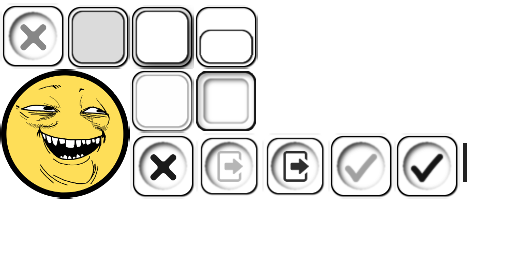
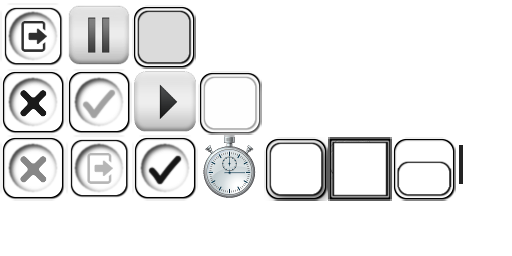
Simple UI, game pause state and minor changes

Changed region(s): [[0.0, 0.0, 0.9375, 0.8125]]

diff --git a/core/src/com/mpv/screens/stages/GameUIStage.java b/core/src/com/mpv/screens/stages/GameUIStage.java
@@ -4,12 +4,14 @@ import com.badlogic.gdx.Gdx;
 import com.badlogic.gdx.graphics.g2d.SpriteBatch;
 import com.badlogic.gdx.scenes.scene2d.Stage;
 import com.badlogic.gdx.scenes.scene2d.ui.Button;
+import com.badlogic.gdx.scenes.scene2d.ui.Image;
 import com.badlogic.gdx.scenes.scene2d.ui.Label;
 import com.badlogic.gdx.scenes.scene2d.ui.Table;
 import com.badlogic.gdx.scenes.scene2d.utils.ClickListener;
 import com.badlogic.gdx.utils.viewport.Viewport;
 import com.mpv.data.Assets;
 import com.mpv.data.GVars;
+import com.mpv.game.world.GameObject;
 
 public class GameUIStage extends Stage {
 
@@ -20,6 +22,7 @@ public class GameUIStage extends Stage {
 	public GameUIStage(Viewport viewport,	 SpriteBatch batch) {
 		super(viewport, batch);
 		Button bExit = new Button(Assets.skin, "button-exit");
+		final Button bPlay = new Button(Assets.skin, "button-play");
 		//
 		bExit.addListener(new ClickListener() {
 			public void clicked(com.badlogic.gdx.scenes.scene2d.InputEvent event, float x, float y) {
@@ -27,16 +30,29 @@ public class GameUIStage extends Stage {
 				Gdx.app.exit();
 			}
 		});
-		labelFPS = new Label("", Assets.skin, "normal-text");
-		labelDebug = new Label("", Assets.skin, "normal-text");
-		labelTime = new Label("", Assets.skin, "normal-text");
+		bPlay.addListener(new ClickListener() {
+			public void clicked(com.badlogic.gdx.scenes.scene2d.InputEvent event, float x, float y) {
+				//super.touchDown(event, x, y, pointer, button);
+				if (bPlay.isChecked()) {
+					GameObject.getInstance().gameResume();
+				} else {
+					GameObject.getInstance().gamePause();
+				}
+			}
+		});
+		labelFPS = new Label("", Assets.skin, "game-text");
+		labelDebug = new Label("", Assets.skin, "game-text");
+		labelTime = new Label("", Assets.skin, "game-text");
 		Table controlPanel = new Table();
 		controlPanel.setFillParent(true);
-		controlPanel.debug().bottom().right();
-		controlPanel.add(labelDebug).expand(true, false).size(GVars.scrHeight/13);
-		controlPanel.add(labelTime).height(GVars.scrHeight/13).width(getWidth()/5);
-		controlPanel.add(labelFPS).size(GVars.scrHeight/13);
-		controlPanel.add(bExit).size(GVars.scrHeight/15);
+		controlPanel.debug().bottom().left();
+		controlPanel.add(new Image(Assets.skin.getDrawable("timer"))).size(GVars.scrHeight/13);
+		controlPanel.add(labelTime).expand(true, false).height(GVars.scrHeight/13).width(getWidth()/5).left();
+		//controlPanel.add(labelDebug).expand(true, false).size(GVars.scrHeight/13);
+		
+		//controlPanel.add(labelFPS).expand(true, false).size(GVars.scrHeight/13);
+		controlPanel.add(bPlay).size(GVars.scrHeight/13).right();
+		//controlPanel.add(bExit).size(GVars.scrHeight/13);
 		this.addActor(controlPanel);
 	}
 

diff --git a/core/src/com/mpv/game/players/Player.java b/core/src/com/mpv/game/players/Player.java
@@ -1,7 +1,6 @@
 package com.mpv.game.players;
 
 import aurelienribon.tweenengine.Tween;
-
 import com.badlogic.gdx.math.Vector2;
 import com.badlogic.gdx.physics.box2d.Body;
 import com.badlogic.gdx.physics.box2d.BodyDef;
@@ -12,7 +11,6 @@ import com.badlogic.gdx.scenes.scene2d.InputEvent;
 import com.badlogic.gdx.scenes.scene2d.utils.ClickListener;
 import com.mpv.data.Const;
 import com.mpv.data.GVars;
-import com.mpv.game.world.GameObject;
 import com.mpv.tween.PlayerAccessor;
 
 public class Player extends AnimatedImage  {
@@ -34,11 +32,6 @@ public class Player extends AnimatedImage  {
 			@Override
 			public boolean touchDown(InputEvent event, float x, float y,
 					int pointer, int button) {
-				if (GameObject.state != GameObject.ACTIVE) {
-					GameObject.getInstance().gameResume();
-				} else {
-					GameObject.getInstance().gamePause();
-				}
 				return super.touchDown(event, x, y, pointer, button);
 			}
 		});

diff --git a/core/src/com/mpv/screens/GameScreen.java b/core/src/com/mpv/screens/GameScreen.java
@@ -8,7 +8,6 @@ import com.badlogic.gdx.InputMultiplexer;
 import com.badlogic.gdx.Screen;
 import com.badlogic.gdx.graphics.Color;
 import com.badlogic.gdx.graphics.GL20;
-import com.badlogic.gdx.graphics.OrthographicCamera;
 import com.badlogic.gdx.graphics.g2d.SpriteBatch;
 import com.badlogic.gdx.input.GestureDetector;
 import com.badlogic.gdx.maps.MapProperties;
@@ -50,9 +49,6 @@ public class GameScreen implements Screen {
 		GVars.tweenManager = new TweenManager();
 		batch = new SpriteBatch();
 		//batch.setShader(Assets.shader);
-		//Camera		
-		GVars.frCam = new OrthographicCamera(GVars.scrWidth, GVars.scrHeight);
-		GVars.bgCam = new OrthographicCamera(GVars.scrWidth, GVars.scrHeight);
 		//Lights		
 		GVars.pointLight = new PointLight(GVars.rayHandler, 24, new Color(1,1,1,1), Const.widthInMeters, Const.BLOCK_SIZE, Const.BLOCK_SIZE);
 		//pointLight.attachToBody(GVars.activePlayer.body, 0f, 0f);

diff --git a/core/src/com/mpv/game/ApplicationHandler.java b/core/src/com/mpv/game/ApplicationHandler.java
@@ -28,21 +28,22 @@ public class ApplicationHandler extends Game {
 		//Loading native libraries
 		GdxNativesLoader.load();
 		
+		//GVars initial setup
+		GVars.app = this;
+		GVars.resize(Gdx.graphics.getWidth(),Gdx.graphics.getHeight());
+		
 		//Initialize configuration and resources
-		Assets.Load();
-		//
+		Assets.load();
+
+		//Custom buttons
 		Gdx.input.setCatchBackKey(true);
 		Gdx.input.setCatchMenuKey(true);
 		
-		GVars.app = this;
-		GVars.resize(Gdx.graphics.getWidth(),Gdx.graphics.getHeight());
-
 		gameObject = GameObject.getInstance();		
 		gameScreen = new GameScreen();
 		menuScreen = new MenuScreen();
-		//Sleep for 2 seconds
-		this.setScreen(gameScreen);
 
+		this.setScreen(gameScreen);
 	}
 	@Override
 	public void dispose() {		

diff --git a/core/src/com/mpv/data/Assets.java b/core/src/com/mpv/data/Assets.java
@@ -69,7 +69,7 @@ public class Assets {
 		buttonSound = null;
 	}
 	
-	public static void Load() {
+	public static void load() {
 		//Music
 		menuMusic = Gdx.audio.newMusic(Gdx.files.internal("music/menu.mp3"));
 		gameMusic = Gdx.audio.newMusic(Gdx.files.internal("music/game.mp3"));
@@ -82,7 +82,7 @@ public class Assets {
 		buttonSound = Gdx.audio.newSound(Gdx.files.internal("sounds/button.mp3"));
 		//Skin & Font
 		skin = new Skin(Gdx.files.internal("data/skin.json"));
-		skin.getFont("normaltext").setScale(0.5f);
+		skin.getFont("normaltext").setScale(GVars.scrWidth/640f);
 		//Tiled maps
 		map1 = new TmxMapLoader().load("maps/level01.tmx");
 		//

diff --git a/core/src/com/mpv/screens/dialogs/PauseDialog.java b/core/src/com/mpv/screens/dialogs/PauseDialog.java
@@ -1,0 +1,23 @@
+package com.mpv.screens.dialogs;
+
+import com.badlogic.gdx.scenes.scene2d.ui.Dialog;
+import com.badlogic.gdx.scenes.scene2d.ui.Skin;
+
+public class PauseDialog extends Dialog {
+
+	public PauseDialog(String title, Skin skin) {
+		super(title, skin);
+		// TODO Auto-generated constructor stub
+	}
+
+	public PauseDialog(String title, WindowStyle windowStyle) {
+		super(title, windowStyle);
+		// TODO Auto-generated constructor stub
+	}
+
+	public PauseDialog(String title, Skin skin, String windowStyleName) {
+		super(title, skin, windowStyleName);
+		// TODO Auto-generated constructor stub
+	}
+
+}

diff --git a/core/src/com/mpv/game/world/GameObject.java b/core/src/com/mpv/game/world/GameObject.java
@@ -1,6 +1,7 @@
 package com.mpv.game.world;
 
 import java.util.concurrent.TimeUnit;
+
 import com.badlogic.gdx.math.Vector2;
 import com.badlogic.gdx.physics.box2d.Body;
 import com.badlogic.gdx.physics.box2d.BodyDef;
@@ -11,6 +12,7 @@ import com.mpv.data.Assets;
 import com.mpv.data.Const;
 import com.mpv.data.GVars;
 import com.mpv.game.ContactHandler;
+import com.mpv.game.players.Player;
 
 public class GameObject {
 	
@@ -47,6 +49,7 @@ public class GameObject {
 	}
 	public void gamePause() {
 		state = PAUSE;
+		Player.state = Player.S_FALL;
 	}
 	public void gameResume() {
 		if (state != PAUSE) {

diff --git a/core/src/com/mpv/data/GVars.java b/core/src/com/mpv/data/GVars.java
@@ -34,16 +34,20 @@ public class GVars {
 	public static int gameTimeMin;
 	
 	public static void resize(float width, float height) {
-		
 		scrWidth = width;
 		scrHeight = height;
+		
 		if (frCam!=null) {
 			frCam.viewportWidth = width;
 			frCam.viewportHeight = height;
+		} else {
+			GVars.frCam = new OrthographicCamera(scrWidth, scrHeight);
 		}
 		if (bgCam!=null) {
 			bgCam.viewportWidth = width;
 			bgCam.viewportHeight = height;
+		} else {
+			GVars.bgCam = new OrthographicCamera(scrWidth, scrHeight);
 		}
 		//Scale
 		BOX_TO_WORLD = scrWidth/Const.widthInMeters;

diff --git a/desktop/src/com/wady/desktop/DesktopLauncher.java b/desktop/src/com/wady/desktop/DesktopLauncher.java
@@ -8,8 +8,8 @@ public class DesktopLauncher {
 	public static void main (String[] arg) {
 		LwjglApplicationConfiguration config = new LwjglApplicationConfiguration();
 		config.title = "Organizo";
-		config.width = 320;
-		config.height = 480;
+		config.width = 480;
+		config.height = 800;
 		config.samples = 4;
 		config.resizable = false;
 		config.vSyncEnabled = true;
